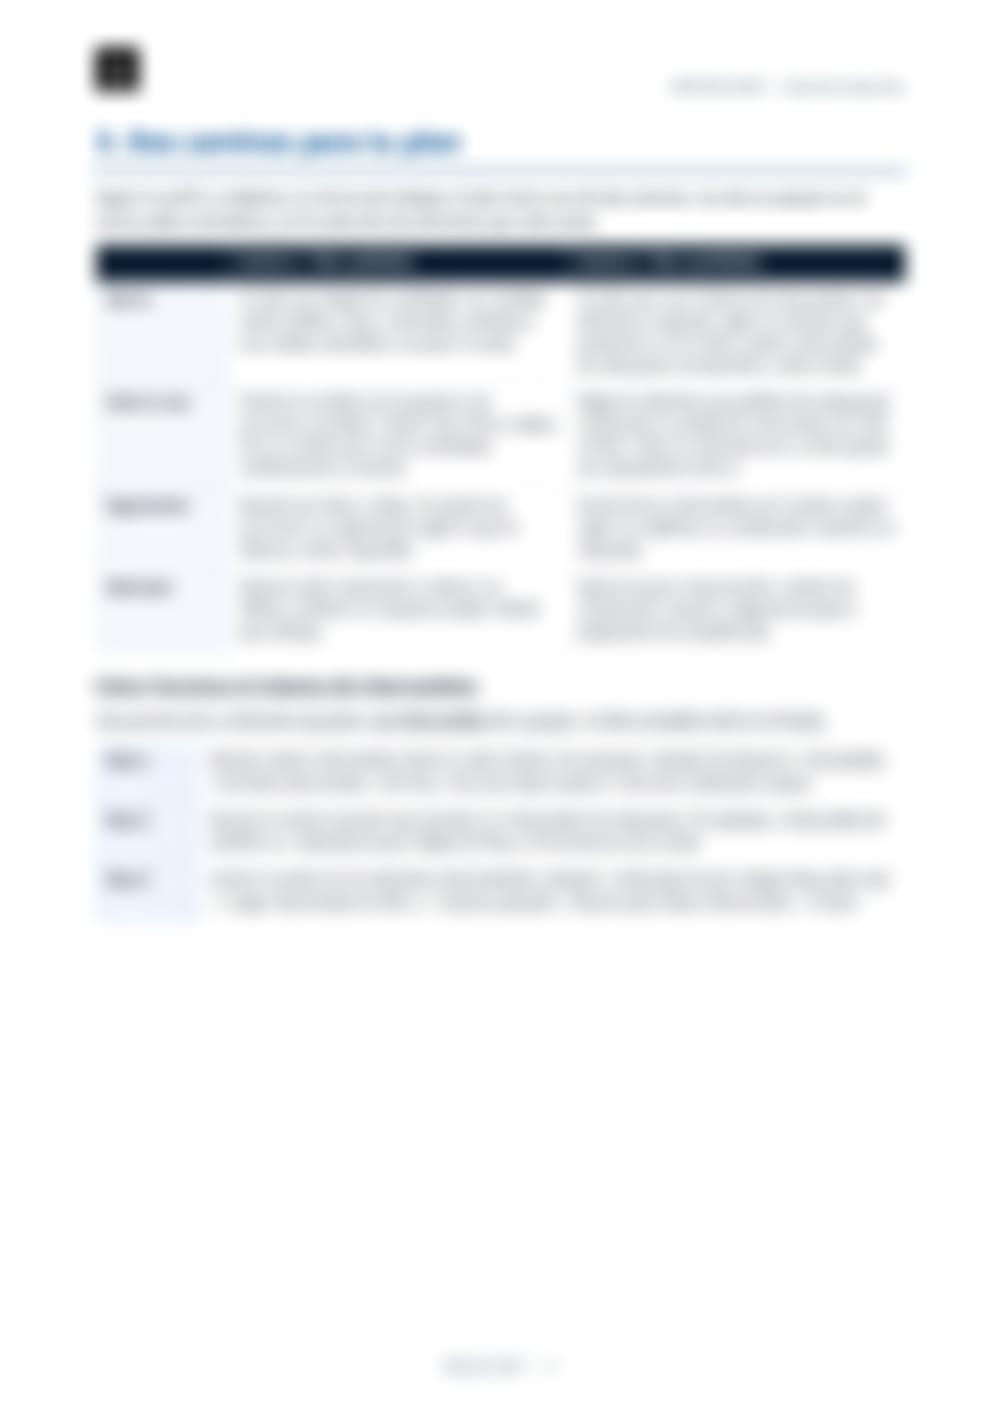
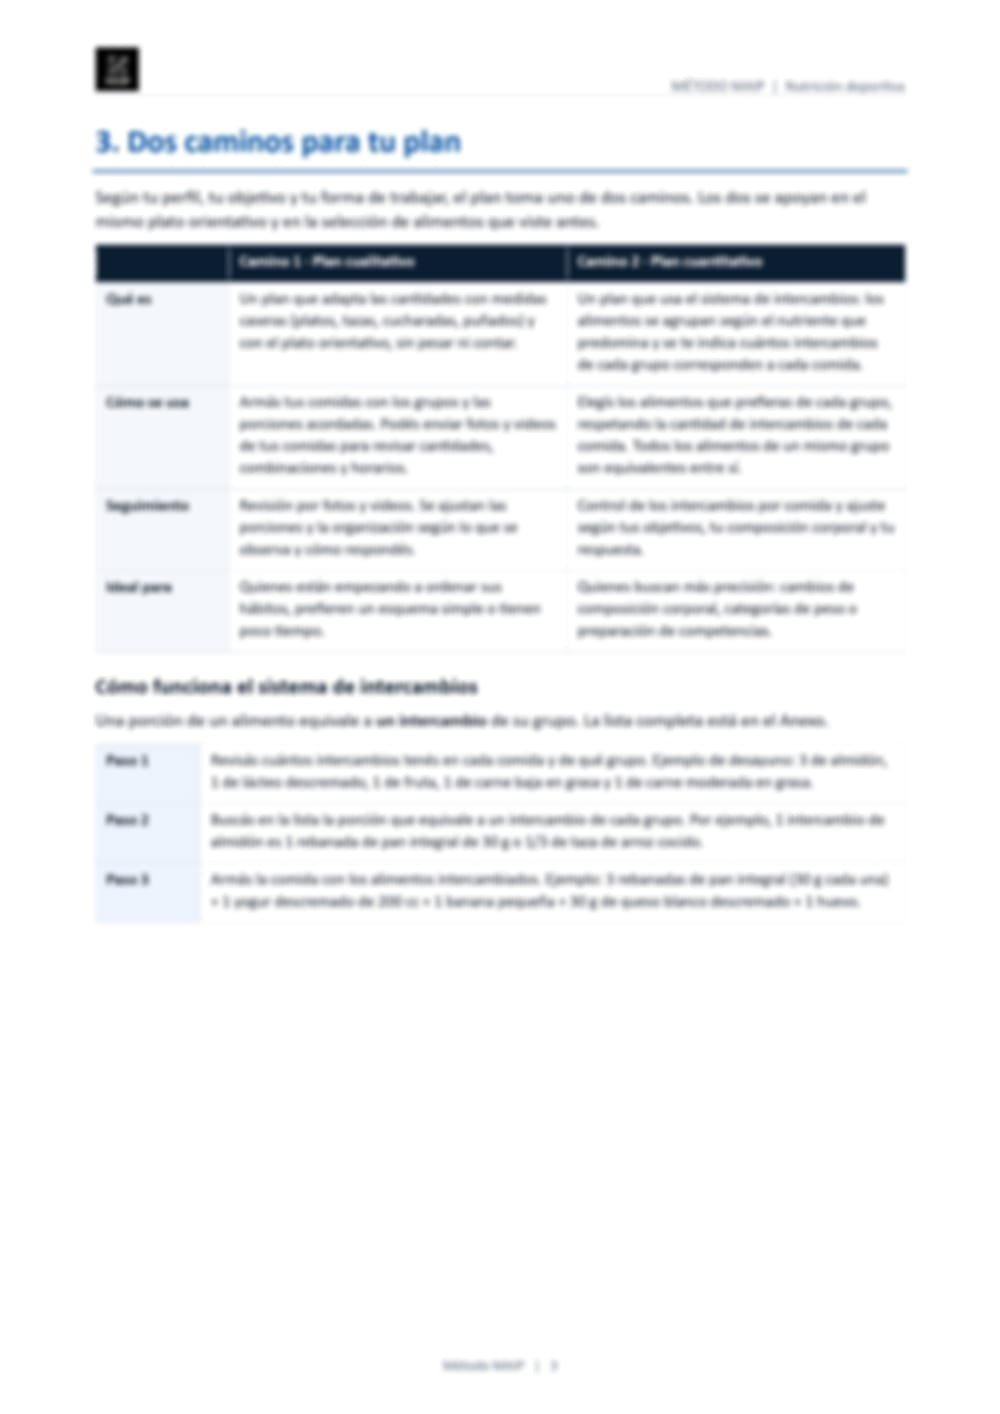
Web: dashboard con los datos de la antropometría y plan de alimentación con difuminado creciente

diff --git a/index.html b/index.html
@@ -1359,7 +1359,7 @@
     <!-- Qué incluye tu plan de alimentación (PDF) en ventana ampliada -->
     <dialog id="info-plan-modal" class="maip-report-modal" aria-labelledby="info-plan-title" aria-describedby="info-plan-description">
         <header class="dashboard-toolbar">
-            <div><h2 id="info-plan-title">¿Qué recibirás en tu plan de alimentación?</h2><p id="info-plan-description">Documento informativo · muestra de las primeras 3 páginas</p></div>
+            <div><h2 id="info-plan-title">¿Qué recibirás en tu plan de alimentación?</h2><p id="info-plan-description">Documento informativo · muestra de las primeras 5 páginas</p></div>
             <div class="dashboard-controls" aria-label="Controles del documento">
                 <button id="info-plan-zoom-out" type="button" aria-label="Reducir zoom del documento">−</button>
                 <output id="info-plan-zoom-label" aria-live="polite">100%</output>
@@ -1371,12 +1371,14 @@
         <div id="info-plan-scroll" class="dashboard-scroll" tabindex="0" aria-label="Páginas del documento sobre el plan de alimentación">
             <div id="info-plan-document" class="dashboard-document">
                 <figure class="dashboard-page"><figcaption>Página 1 de 11 · Plato orientativo</figcaption><picture><source srcset="img/plan-pdf/pagina-01.webp" type="image/webp"><img src="img/plan-pdf/pagina-01.jpg" alt="Documento del plan de alimentación, página 1: título, índice y tres platos orientativos con distintas proporciones de verduras y frutas, proteínas e hidratos" width="1000" height="1414" loading="lazy" decoding="async"></picture></figure>
-                <figure class="dashboard-page"><figcaption>Página 2 de 11 · Selección de alimentos · vista parcial</figcaption><picture><source srcset="img/plan-pdf/pagina-02-demo.webp" type="image/webp"><img src="img/plan-pdf/pagina-02-demo.jpg" alt="Página 2 del plan de alimentación, parcialmente difuminada: selección de alimentos por grupo" width="1000" height="1414" loading="lazy" decoding="async"></picture></figure>
-                <figure class="dashboard-page"><figcaption>Página 3 de 11 · Dos caminos para tu plan · vista parcial</figcaption><picture><source srcset="img/plan-pdf/pagina-03-demo.webp" type="image/webp"><img src="img/plan-pdf/pagina-03-demo.jpg" alt="Página 3 del plan de alimentación, casi totalmente difuminada: plan cualitativo y plan cuantitativo" width="1000" height="1414" loading="lazy" decoding="async"></picture></figure>
+                <figure class="dashboard-page"><figcaption>Página 2 de 11 · Selección de alimentos</figcaption><picture><source srcset="img/plan-pdf/pagina-02-clara.webp" type="image/webp"><img src="img/plan-pdf/pagina-02-clara.jpg" alt="Página 2 del plan de alimentación: selección de alimentos por grupo" width="1000" height="1414" loading="lazy" decoding="async"></picture></figure>
+                <figure class="dashboard-page"><figcaption>Página 3 de 11 · Dos caminos para tu plan · vista parcial</figcaption><picture><source srcset="img/plan-pdf/pagina-03-demo.webp" type="image/webp"><img src="img/plan-pdf/pagina-03-demo.jpg" alt="Página 3 del plan de alimentación, con difuminado leve: plan cualitativo y plan cuantitativo" width="1000" height="1414" loading="lazy" decoding="async"></picture></figure>
+                <figure class="dashboard-page"><figcaption>Página 4 de 11 · Organización diaria de las comidas · vista parcial</figcaption><picture><source srcset="img/plan-pdf/pagina-04-demo.webp" type="image/webp"><img src="img/plan-pdf/pagina-04-demo.jpg" alt="Página 4 del plan de alimentación, con difuminado medio: organización diaria de las comidas" width="1000" height="1414" loading="lazy" decoding="async"></picture></figure>
+                <figure class="dashboard-page"><figcaption>Página 5 de 11 · Ideas de menú · vista parcial</figcaption><picture><source srcset="img/plan-pdf/pagina-05-demo.webp" type="image/webp"><img src="img/plan-pdf/pagina-05-demo.jpg" alt="Página 5 del plan de alimentación, casi totalmente difuminada: ideas de menú" width="1000" height="1414" loading="lazy" decoding="async"></picture></figure>
                 <div class="plan-lock" role="note">
                     <i class="fas fa-lock" aria-hidden="true"></i>
                     <h3>Seguí viendo el contenido</h3>
-                    <p>Esta es una muestra de las primeras páginas. Si querés seguir viendo el contenido del plan (páginas 4 a 11), comunicate con nosotros.</p>
+                    <p>Esta es una muestra de las primeras páginas. Si querés seguir viendo el contenido del plan (páginas 6 a 11), comunicate con nosotros.</p>
                     <a class="plan-lock-btn" href="https://wa.me/5491126108920?text=Hola%20Juli%C3%A1n%2C%20quiero%20que%20eval%C3%BAes%20mi%20caso." target="_blank" rel="noopener noreferrer"><i class="fab fa-whatsapp" aria-hidden="true"></i> Evaluar caso</a>
                 </div>
             </div>
@@ -1401,12 +1403,12 @@
                         <div><small>MÉTODO MAIP</small><h3>Informe MAIP del deportista</h3><p>Resumen de evaluación y estrategia nutricional personalizada</p></div>
                     </div>
                     <dl class="ip-info">
-                        <div><dt>Nombre</dt><dd>Paciente Modelo (ejemplo)</dd></div>
-                        <div><dt>Fecha</dt><dd>4 de octubre de 2026</dd></div>
+                        <div><dt>Nombre</dt><dd>Paciente Modelo (ejemplo) · 27 años</dd></div>
+                        <div><dt>Fecha</dt><dd>5 de noviembre de 2026</dd></div>
                         <div><dt>Deporte</dt><dd>Running (calle)</dd></div>
                         <div><dt>Etapa / competencia</dt><dd>Preparación de base</dd></div>
                         <div><dt>Objetivo principal</dt><dd>Rendimiento en media maratón</dd></div>
-                        <div><dt>Próximo control</dt><dd>16 de noviembre de 2026</dd></div>
+                        <div><dt>Próximo control</dt><dd>3 de diciembre de 2026</dd></div>
                     </dl>
                     <div class="ip-phrase"><small>TU ESTRATEGIA EN UNA FRASE</small><p>Llegar a los entrenamientos largos con energía, ordenar las comidas alrededor de cada sesión y sostener la proteína durante todo el día.</p></div>
 
@@ -1416,7 +1418,7 @@
 
                     <h3 class="ip-h">El método MAIP aplicado a vos</h3>
                     <div class="ip-quads">
-                        <div class="ip-quad ip-m"><small>M — MEDIR</small><h4>Tu punto de partida</h4><em>Datos clave</em><ul><li>Peso 80,5 kg · talla 1,74 m</li><li>Suma de 6 pliegues: 51 mm</li><li>Corre 4 días por semana</li></ul></div>
+                        <div class="ip-quad ip-m"><small>M — MEDIR</small><h4>Tu punto de partida</h4><em>Datos clave</em><ul><li>Peso 71,5 kg · talla 1,765 m</li><li>Suma de 6 pliegues: 48 mm</li><li>Corre 4 días por semana</li></ul></div>
                         <div class="ip-quad ip-a"><small>A — ANALIZAR</small><h4>Qué observamos</h4><em>Hallazgos principales</em><ul><li>Desayuna sin proteína y cena tarde</li><li>Salidas largas en ayunas, con cansancio</li><li>Cena liviana y poca hidratación</li></ul></div>
                         <div class="ip-quad ip-i"><small>I — INTERPRETAR</small><h4>Qué significa para vos</h4><em>Prioridades</em><ul><li>Primero energía; después composición</li><li>Proteína repartida: cuida el músculo</li><li>Ajustar el combustible de las salidas largas</li></ul></div>
                         <div class="ip-quad ip-p"><small>P — PLANIFICAR</small><h4>Qué vamos a hacer</h4><em>Acciones</em><ul><li>Desayuno con proteína e hidratos</li><li>Comer antes de salidas de más de 60 min</li><li>Hidratarse desde la mañana del sábado</li></ul></div>
